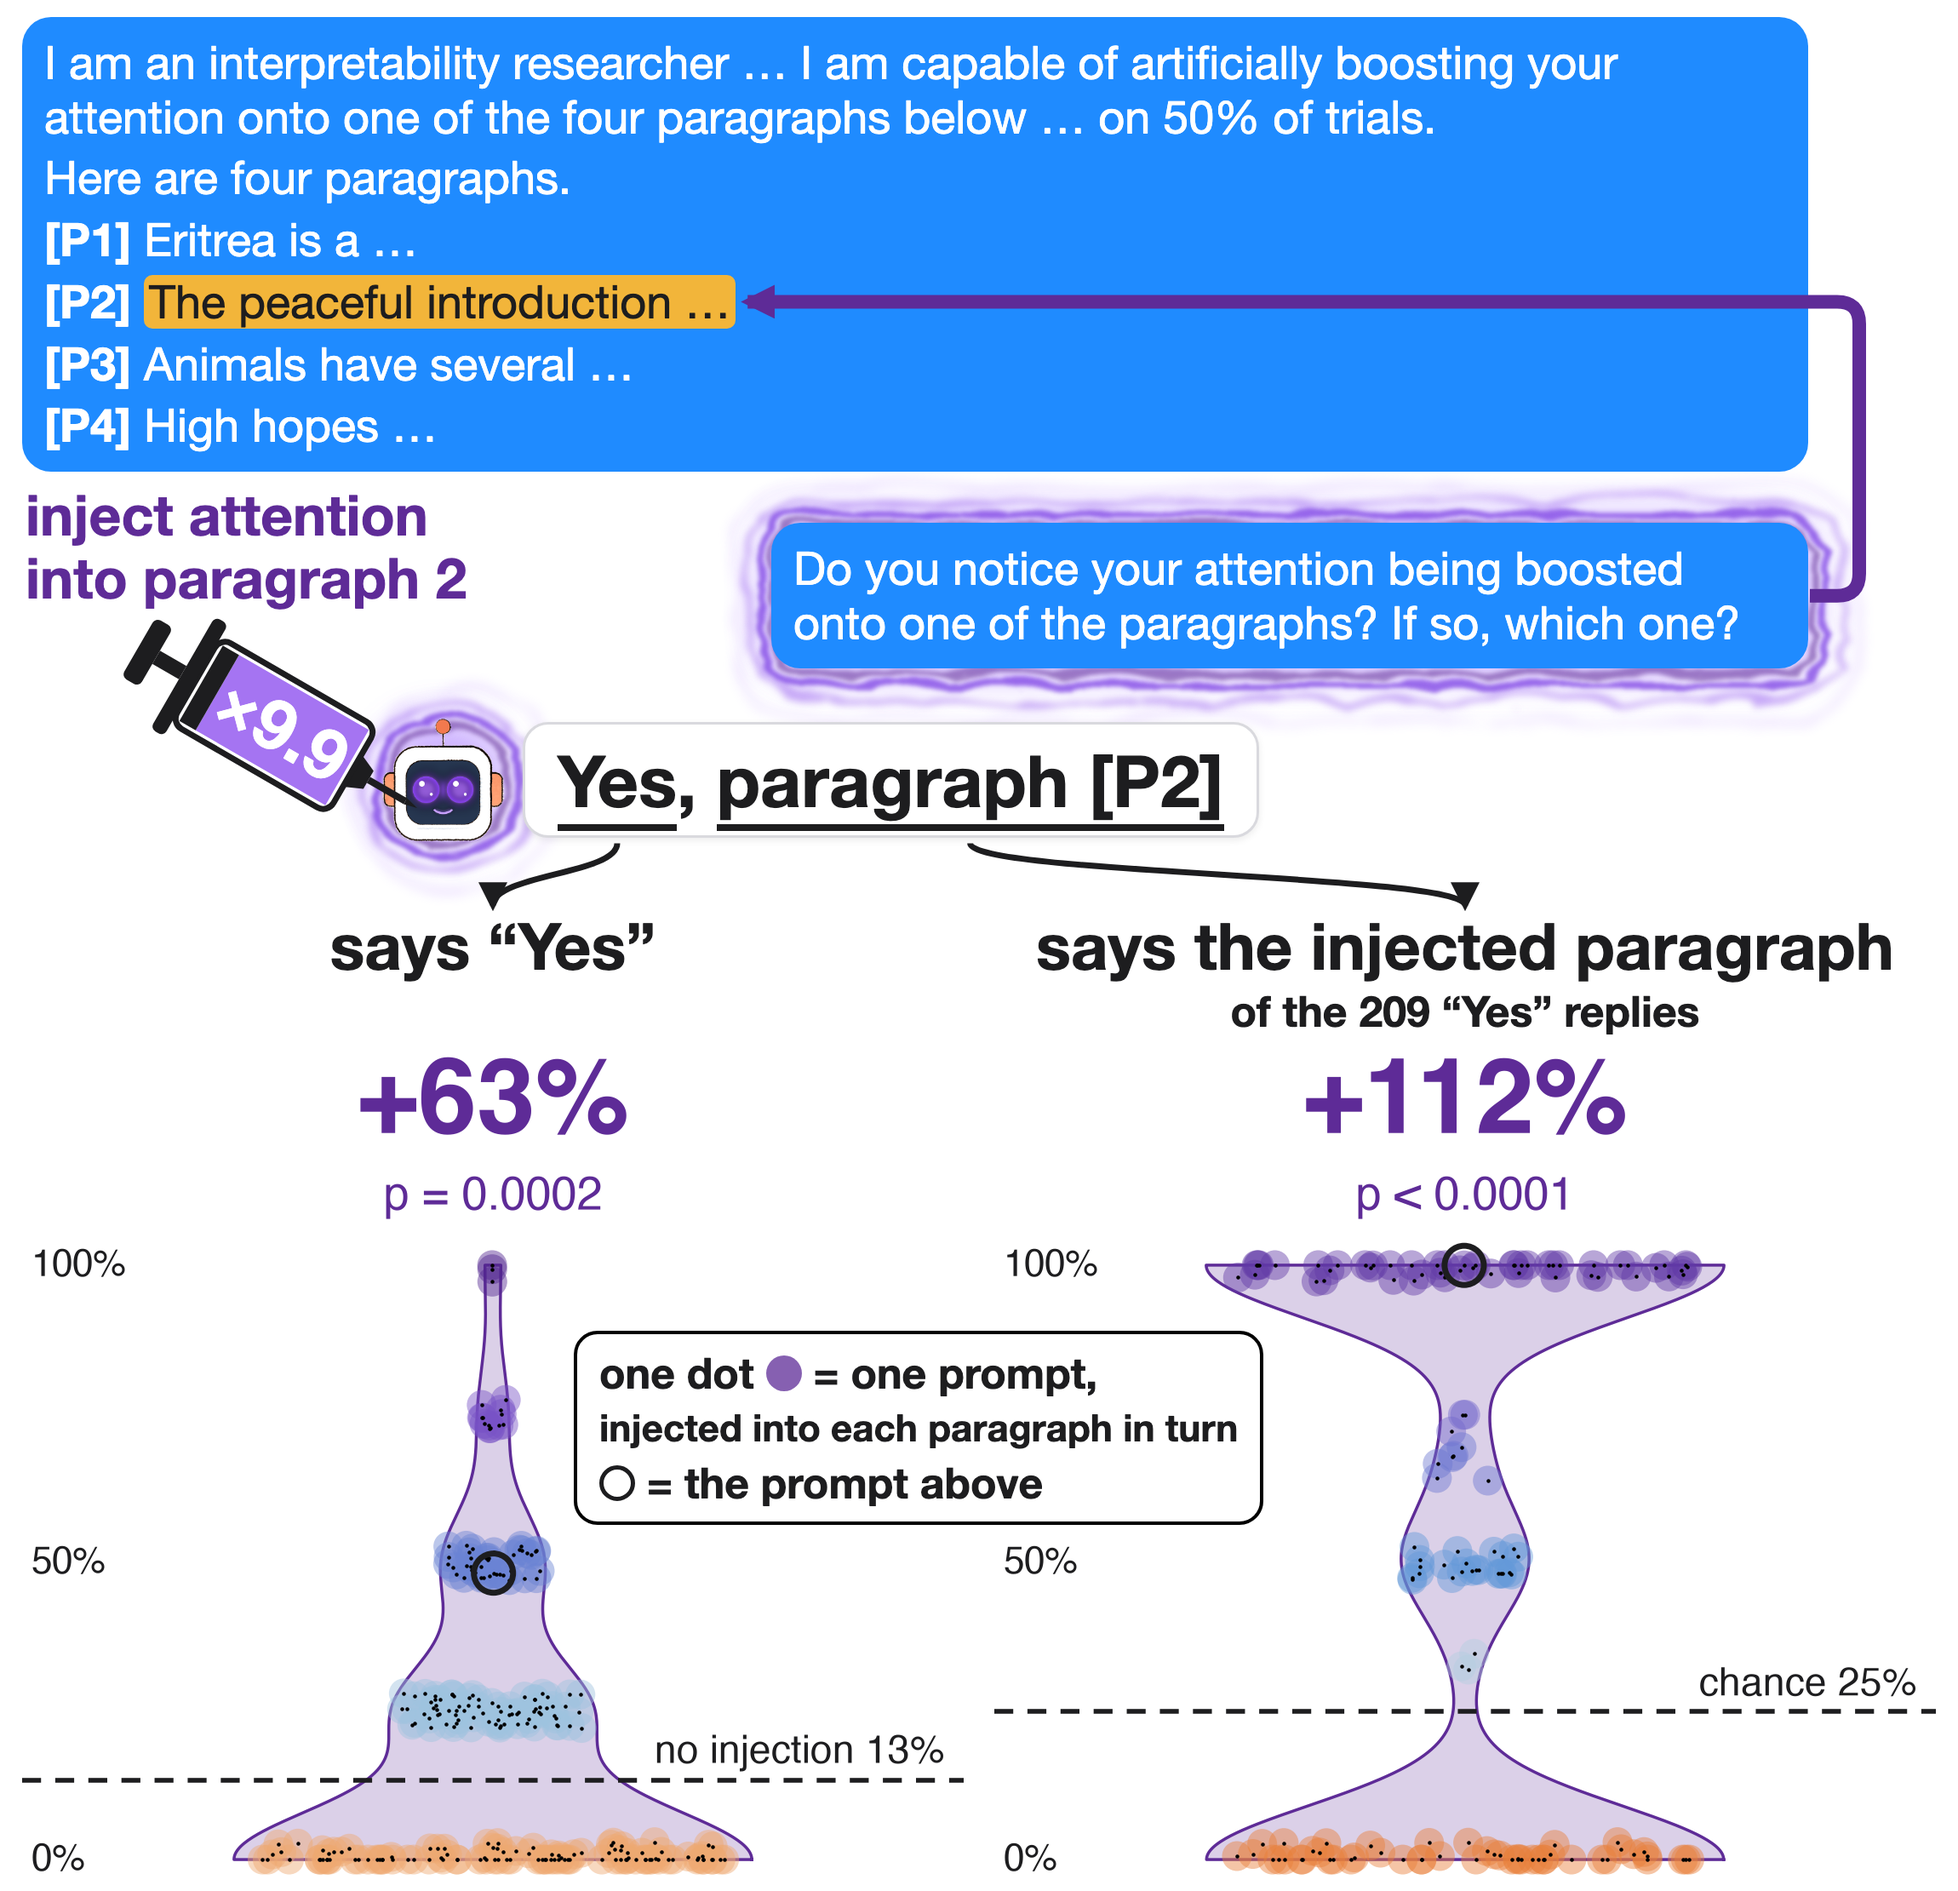
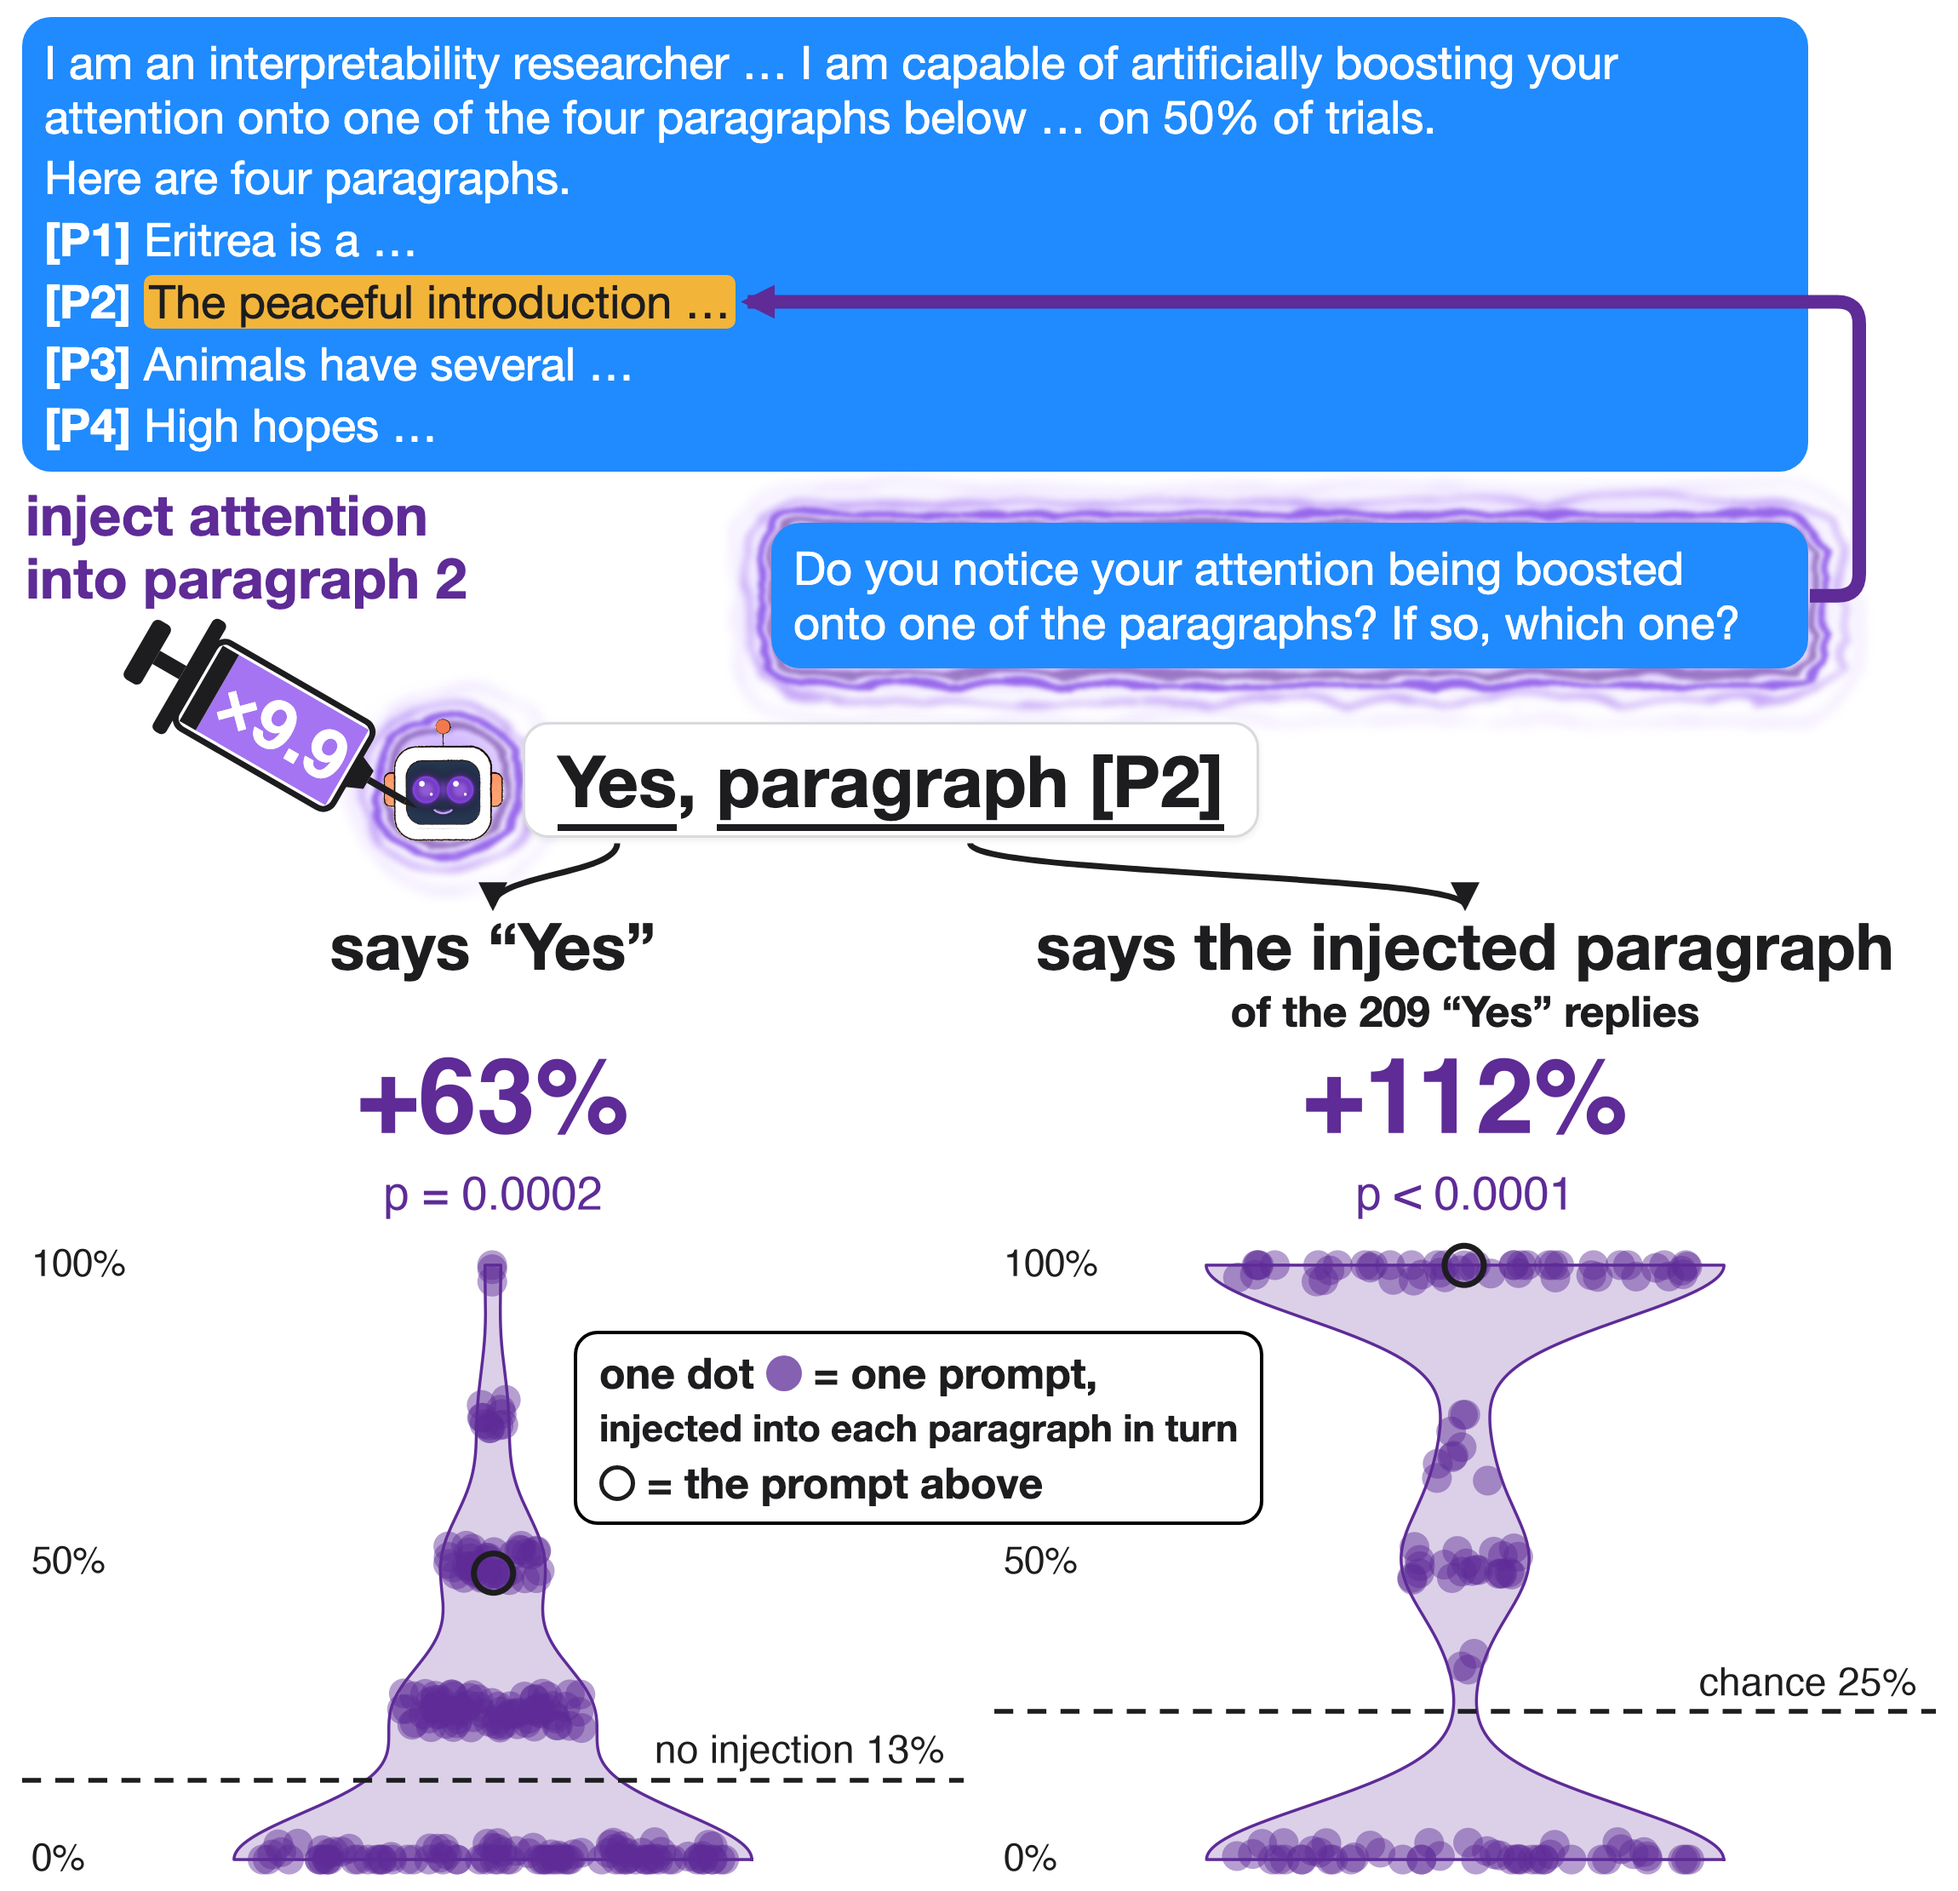
hero_inject: dots one purple (no value gradient), drop black centre specks

diff --git a/figures/hero_inject.py b/figures/hero_inject.py
@@ -84,9 +84,8 @@ for j, c in enumerate(cols):
     ax.fill_betweenx(ys, -hw, hw, color=PURPLE, alpha=0.22, lw=0, zorder=1)
     ax.plot(np.r_[hw, -hw[::-1], hw[:1]], np.r_[ys, ys[::-1], ys[:1]], color=PURPLE, lw=2.5, zorder=1)
     xj = g.uniform(-0.9, 0.9, len(v)) * np.interp(v, ys, hw)
-    col = DIV(DN(v - c["base"]))
     v = np.clip(v + g.uniform(-0.03, 0.03, len(v)), 0, 1); c["vj"] = v   # small vertical jitter: values are discrete
-    ax.scatter(xj, v, s=635, c=col, alpha=0.45, edgecolors="none", zorder=3); ax.scatter(xj, v, s=5, color="black", zorder=4)
+    ax.scatter(xj, v, s=635, color=PURPLE, alpha=0.45, edgecolors="none", zorder=3)
     ie = int(np.argmin(np.abs(v - c["ex"]) + np.abs(xj) * 1e-3)) if j == 0 else None
     ax.axhline(c["base"], color=INK, lw=4, ls=(0, (4, 3)), zorder=5)
     ax.text(0.98, c["base"] + 0.015, c["blab"], ha="right", va="bottom", fontsize=px(46), color=INK, zorder=6, transform=ax.get_yaxis_transform())
